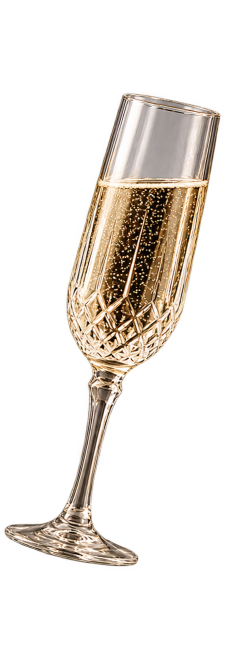
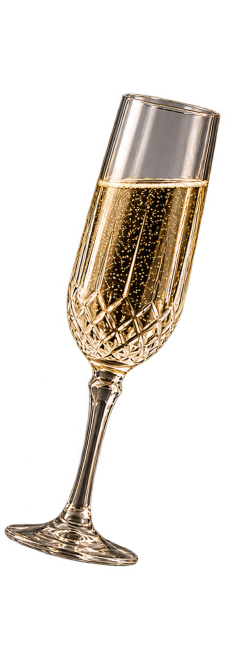
Restore layered glass transparency in campaign hero

Changed region(s): [[0.0302, 0.1235, 0.9353, 0.8951]]

diff --git a/gifts/index.html b/gifts/index.html
@@ -6,7 +6,7 @@
   <meta name="theme-color" content="#1e1222">
   <title>Время сиять — Новый год с ВинЛаб</title>
   <link rel="stylesheet" href="./styles.css?v=24a6517e">
-  <link rel="stylesheet" href="./landing.css?v=fbd6b608">
+  <link rel="stylesheet" href="./landing.css?v=glass-layers">
   <script defer src="./garland-paths.js?v=732473da"></script>
   <script defer src="./landing.js?v=1a592c59"></script>
   <script defer src="./script.js?v=bbf35247"></script>
@@ -35,10 +35,14 @@
           <img class="hero-object hero-ornament" style="--x:-237;--y:-170;--w:428;--h:428;--turn:30.38deg" src="./assets/landing/purple-ornament.png" alt="">
           <img class="hero-object hero-ornament" style="--x:1774;--y:881;--w:430;--h:430;--turn:-32.98deg" src="./assets/landing/purple-ornament.png" alt="">
           <img class="hero-object hero-purple-gift" style="--x:688;--y:647;--w:380;--h:380;--turn:180deg;--flip:-1" src="./assets/landing/purple-gift.png" alt="">
-          <img class="hero-object hero-float hero-float--left" style="--x:890;--y:243;--w:231.22;--h:647.06" src="./assets/landing/glass-scene-left.png" alt="">
-          <img class="hero-object hero-float hero-float--middle" style="--x:1138.85;--y:81;--w:264.52;--h:528.45" src="./assets/landing/glass-scene-middle.png" alt="">
+          <!-- Each exposure layer retains its 50% opacity from the Figma export. -->
+          <img class="hero-object hero-float hero-float--left hero-glass-base" style="--x:890;--y:243;--w:231.04;--h:647.06" src="./assets/landing/glass-scene-left.png?v=glass-layers" alt="">
+          <img class="hero-object hero-float hero-float--left" style="--x:890.18;--y:243;--w:231.04;--h:647.06" src="./assets/landing/glass-scene-left-highlights.png" alt="">
+          <img class="hero-object hero-float hero-float--middle hero-glass-base" style="--x:1138.85;--y:81;--w:264.52;--h:528.45" src="./assets/landing/glass-scene-middle.png?v=glass-layers" alt="">
+          <img class="hero-object hero-float hero-float--middle" style="--x:1138.85;--y:81;--w:264.52;--h:528.45" src="./assets/landing/glass-scene-middle-highlights.png" alt="">
           <img class="hero-object hero-sparkler" style="--x:1714;--y:-45;--w:499;--h:911;--turn:-30deg" src="./assets/landing/sparkler.png" alt="">
-          <img class="hero-object hero-float hero-float--right" style="--x:1391.09;--y:283.39;--w:446.6;--h:794.23" src="./assets/landing/glass-scene-right.png" alt="">
+          <img class="hero-object hero-float hero-float--right hero-glass-base" style="--x:1391.09;--y:283.39;--w:446.6;--h:794.23" src="./assets/landing/glass-scene-right.png?v=glass-layers" alt="">
+          <img class="hero-object hero-float hero-float--right" style="--x:1391.09;--y:283.39;--w:446.6;--h:794.23" src="./assets/landing/glass-scene-right-highlights.png" alt="">
           <img class="hero-object hero-float hero-float--right" style="--x:1416;--y:332;--w:208;--h:208" src="./assets/landing/sparkle-large.png" alt="">
           <img class="hero-object hero-float hero-float--left" style="--x:940;--y:262;--w:139;--h:139" src="./assets/landing/sparkle.png" alt="">
           <img class="hero-object" data-garland="front" style="--x:1598;--y:834;--w:322;--h:109" src="./assets/landing/hero-line-front.png" alt="">

diff --git a/gifts/landing.css b/gifts/landing.css
@@ -37,6 +37,7 @@
   transform: rotate(var(--turn, 0deg)) scale(var(--mirror, 1), var(--flip, 1));
 }
 .hero-rays { mix-blend-mode: plus-lighter; }
+.hero-glass-base { mix-blend-mode: hard-light; }
 .hero-sparkler { filter: blur(calc(5 * var(--u))); object-fit: cover; object-position: bottom; }
 .hero-ornament { filter: blur(calc(6 * var(--u))); }
 .hero-green-ornament img { position: absolute; display: block; }
